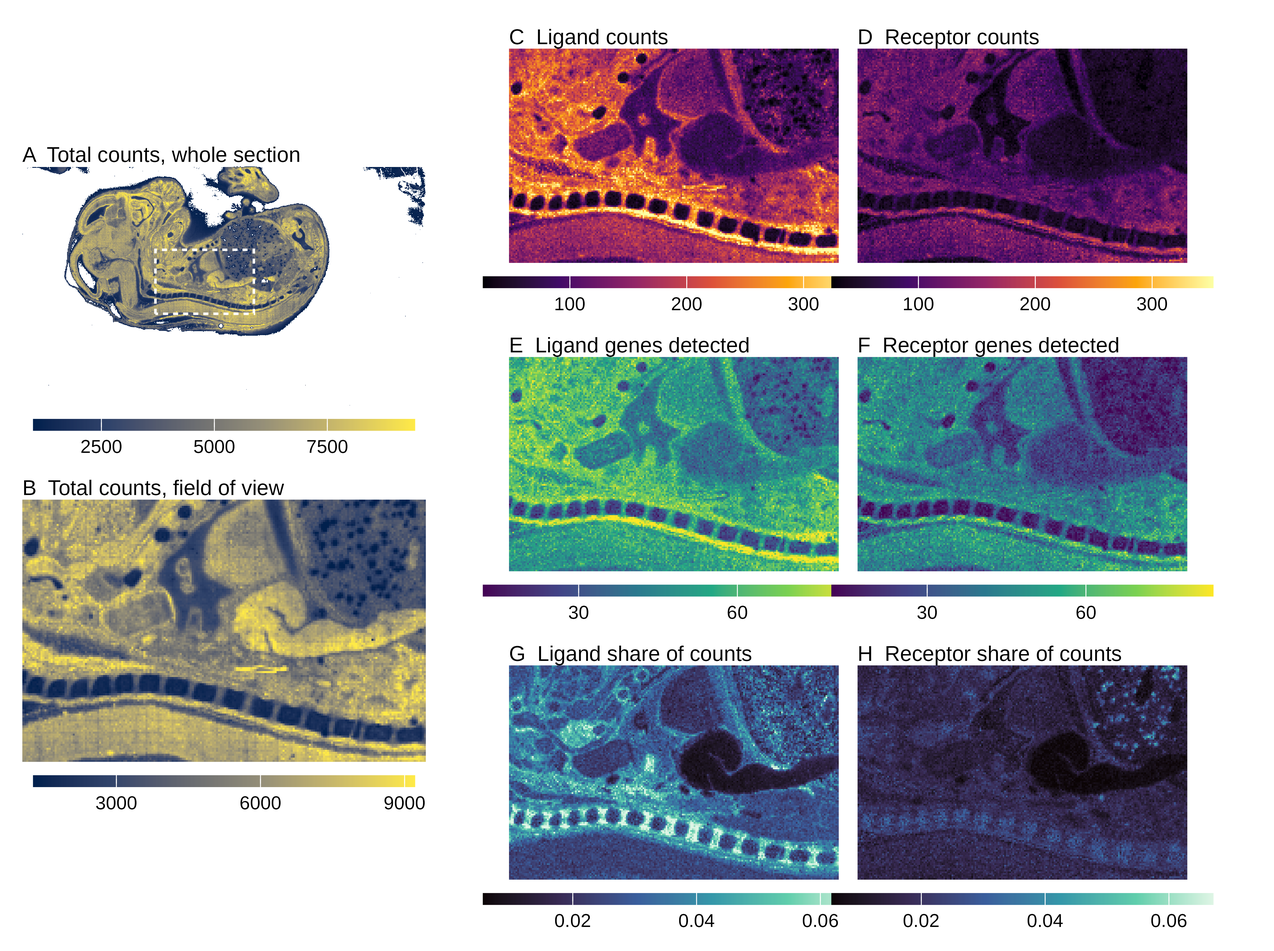
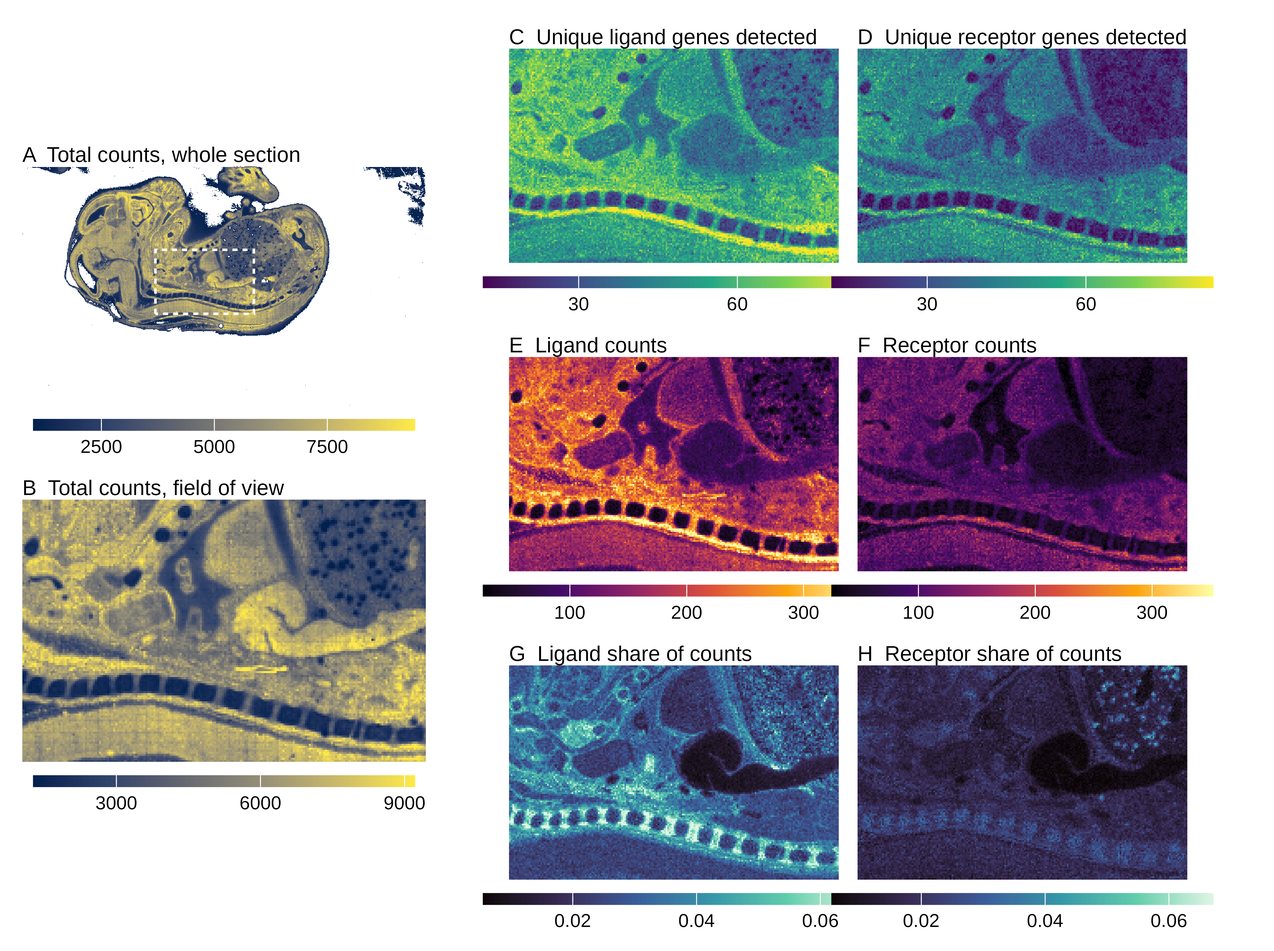
AOZ's logged edits of 2026-11-24: plug-in map as the one name, Fig 1 glyphs, Fig 2 panel order, abstract, AI-use disclosure draft
- "plug-in map" replaces "point-estimate map" in the working manuscript, the response
  letter and the cover letter; defined at first use in the abstract, Introduction and Methods.
- Fig 1: posterior glyph removed from protein density (an assumed proxy, not estimated);
  caption says which quantities carry a computed posterior.
- Fig 2: the genes-detected panels move ahead of the count panels and are titled "Unique ...";
  panels and caption re-lettered; the caption sentence on panels G and H removed.
- Abstract: tissue-domain sentences restored in plain wording.
- Draft Methods subsection "Use of artificial intelligence tools", with bracketed notes for AOZ.
- Reading-aid scripts: snippets with an already-escaped character no longer break the build;
  the header note of the agent-edits copy is set by CHANGE_NOTE.

Claude-Session: https://claude.ai/code/session_01JZRqUH5ojfcJY9isAYvzHi

Changed region(s): [[0.3733, 0.0312, 0.9644, 0.6562]]

diff --git a/Submission_PLOSOne/submission-2/plos-port/paper-plos-voice.tex b/Submission_PLOSOne/submission-2/plos-port/paper-plos-voice.tex
@@ -105,7 +105,7 @@ Micha Sam Brickman Raredon\textsuperscript{2,3,4\Yinyang*}
 \end{flushleft}
 
 \section*{Abstract}
-Maps of ligand-receptor interaction estimated from spatial transcriptomics are frequently read by eye from point estimates. This has too often been extended to judging by eye whether a field is higher in one region as compared to another. Such a reading ignores two things: the sampling uncertainty of the estimates, which for an interaction field combines the uncertainty of the expression of two genes, and the spatial correlation between neighboring locations, which leaves a region with far less independent information than its size suggests. We fit a Bayesian hierarchical geostatistical model to the raw counts of each ligand and receptor gene in one field of view of an embryonic day 16.5 mouse embryo section profiled with Stereo-seq. Joint posterior draws from these fits give a posterior distribution over maps of each gene's expression, from which posteriors of 1,477 ligand-receptor interaction fields are computed. We use these posteriors to ask whether the differences visible on the maps are supported by the data, for averages over regions, along transects, and over whole fields. Joint inference by excursion sets is used as the primary decision tool. Of 19,201 comparisons between pairs of regions, 11,527 show a ratio of at least 1.25 on the point-estimate maps, and for 3,603 of these (31\%) the posterior 95\% interval for the ratio includes 1, indicating that a difference seen in the point estimates is frequently not supported by the data. This share is highest for the two comparisons between small regions within one tissue, at 83\% and 91\%. Comparisons can also be found where areas that look alike on the maps are credibly different. A rank test applied to the smoothed map values, treating locations as independent, finds a difference in 90\% of the comparisons, whereas using the joint posterior finds a difference in only 46\%, and the posterior with its spatial correlation removed in only 73\%, indicating that most of the disagreement traces to the correlation rather than to the uncertainty at each location. Along transects and over whole fields, far fewer locations are identified as differing when the statement must hold for all of them at once than when each location is judged separately. The fields estimate the potential for signaling under the co-expression assumption standard in cell-cell communication analysis, not signaling itself.
+Maps of ligand-receptor interaction estimated from spatial transcriptomics are frequently read by eye from point estimates. This has too often been extended to judging by eye whether a field is higher in one region as compared to another. Such a reading ignores two things: the sampling uncertainty of the estimates, which for an interaction field combines the uncertainty of the expression of two genes, and the spatial correlation between neighboring locations, which leaves a region with far less independent information than its size suggests. We fit a Bayesian hierarchical geostatistical model to the raw counts of each ligand and receptor gene in one field of view of an embryonic day 16.5 mouse embryo section profiled with Stereo-seq. Joint posterior draws from these fits give a posterior distribution over maps of each gene's expression, from which posteriors of 1,477 ligand-receptor interaction fields are computed. We use these posteriors to ask whether the differences visible on the maps are supported by the data, for averages over regions, along transects, and over whole fields. Joint inference by excursion sets is used as the primary decision tool. Of 19,201 comparisons between pairs of regions, 11,527 show a ratio of at least 1.25 on the plug-in maps, which are the maps computed from the point estimate of each gene, and for 3,603 of these (31\%) the posterior 95\% interval for the ratio includes 1, indicating that a difference seen in the point estimates is frequently not supported by the data. This share is highest for the two comparisons between small regions within one tissue, at 83\% and 91\%. Comparisons can also be found where areas that look alike on the maps are credibly different. A rank test applied to the smoothed map values, treating locations as independent, finds a difference in 90\% of the comparisons, whereas using the joint posterior finds a difference in only 46\%, and the posterior with its spatial correlation removed in only 73\%, indicating that most of the disagreement traces to the correlation rather than to the uncertainty at each location. Along transects and over whole fields, far fewer locations are identified as differing when the statement must hold for all of them at once than when each location is judged separately. Clustering the locations on all of the interaction fields at once divides the tissue into domains. These domains are more spatially coherent than those obtained after the counts are shuffled across locations, and they agree with the published anatomical annotation of the same section more closely than expected by chance. The fields estimate the potential for signaling under the co-expression assumption standard in cell-cell communication analysis, not signaling itself.
 
 \linenumbers
 
@@ -114,7 +114,7 @@ Maps of ligand-receptor interaction estimated from spatial transcriptomics are f
 \begin{figure}[!ht]
     \centering
     \figimg[width=1\linewidth]{../figures-regenerated/fig1-schematic.png}
-    \caption{{\bf Project schematic.} Purple arrows represent tissue processes: cell states give rise to ligand and receptor (L/R) transcripts and proteins, ligand-receptor binding, and communication between cells, which in turn changes cell states. The shaded regions mark what is measured by spatialomics data collection (orange) and what is estimated by spatial modeling (teal). Stacked outlines mark high-dimensional quantities, one layer per gene or ligand-receptor pair. The bell-shaped glyphs mark estimated quantities that carry a posterior distribution. The posterior of each estimated ligand-receptor field, taken jointly over all of its locations, is what allows the comparisons of this paper, which ask whether apparent differences between regions, along transects or over whole fields are credible. All quantities downstream of the transcript counts are model-derived proxies, not measurements.}
+    \caption{{\bf Project schematic.} Purple arrows represent tissue processes: cell states give rise to ligand and receptor (L/R) transcripts and proteins, ligand-receptor binding, and communication between cells, which in turn changes cell states. The shaded regions mark what is measured by spatialomics data collection (orange) and what is estimated by spatial modeling (teal). Stacked outlines mark high-dimensional quantities, one layer per gene or ligand-receptor pair. The bell-shaped glyphs mark the quantities for which a posterior distribution is computed: the transcript densities, which the model estimates from the counts, and the binding densities, which are computed from the posterior draws of the two partners. Protein density carries no glyph, because it is not estimated separately but is assumed to be proportional to transcript density. The posterior of each estimated ligand-receptor field, taken jointly over all of its locations, is what allows the comparisons of this paper, which ask whether apparent differences between regions, along transects or over whole fields are credible. All quantities downstream of the transcript counts are model-derived proxies, not measurements.}
     \label{fig:proj_schema}
   \end{figure}
 
@@ -143,7 +143,7 @@ Our statistical goal in this work was to take spatialomics data observations as 
 
 The two preceding points, sampling variability and spatial correlation, have direct implications for how maps of ligand-receptor interaction are read. Such maps are usually interpreted by eye: a field that looks higher in one region than another is taken to differ there, and a band that stands out along a structure is taken to be real. Two features of the data make that reading less reliable than it appears. First, each estimate carries sampling uncertainty, and for an interaction field, which is built from two genes, the uncertainty of both partners is inherited. Second, estimates at neighboring locations are correlated, so a region containing hundreds of locations may carry only a handful of independent pieces of information about the field's level there, meaning that it is easy for those viewing these data to be over-confident in the signals that they see. Tests that treat locations as independent observations have been shown in simulation to overstate the evidence when observations are spatially correlated in this way \cite{vasconcelos2026smide,seal2026spacebf}. A posterior distribution over whole fields addresses both features at once, and it permits statements about many locations simultaneously, such as the largest set of locations at which a field exceeds a reference with a stated joint probability \cite{bolin2015excursion}. Joint statements of this kind have been used to map activation in functional brain imaging with the same modeling tools we use \cite{mejia2020bayesian}, and simultaneous credible bands built from joint posterior draws have summarized interaction curves between cell types in multiplexed imaging \cite{eliason2026shade}. In spatial transcriptomics, Bayesian models have been used to compare gene expression between anatomical regions \cite{aijo2019splotch} and to place credible intervals on ligand-receptor co-expression at each location \cite{seal2026spacebf}. We are not aware of work that uses joint posterior statements to compare ligand-receptor interaction fields between regions, along transects and over whole fields, which is what we demonstrate herein and call upon other spatialomics researchers to incorporate into their own work as the standard way to perform comparisons.
 
-In this manuscript we fit a continuous spatial model to the raw counts of each ligand and receptor gene in one field of view of a mouse embryo section, obtaining a posterior for every gene field and, from the two partners' posteriors, a posterior for every ligand-receptor interaction field. Our central question is whether the differences that are visible on the point-estimate maps of these fields are supported by the data once that posterior is taken into account. We explore three forms of this question: using the ratio of two regional averages, the profile of a field along a transect, and the whole field against a reference. In each variation of the question, a joint posterior statement is taken to be the primary answer. Beside each answer we set the readings that are usually made without a posterior: the map itself, read with an explicit threshold, and a rank test that treats the locations of the map as independent observations. The regions, the transects, the threshold and the randomly drawn example pairs were fixed before any posterior comparison was computed to avoid selection bias. The analyses that were added after that point are each dated in the design document provided with the code. Because these fields were developed to study many interactions at once, we also report that clustering the full collection of interaction fields yields spatially coherent tissue domains, together with the controls that bound what those domains show. Throughout, the demonstration is on one field of view of one section of one embryo, and the fields estimate the potential for signaling under the co-expression assumption, not signaling itself.
+In this manuscript we fit a continuous spatial model to the raw counts of each ligand and receptor gene in one field of view of a mouse embryo section, obtaining a posterior for every gene field and, from the two partners' posteriors, a posterior for every ligand-receptor interaction field. Our central question is whether the differences that are visible on the plug-in maps of these fields, which are the maps computed from the point estimate of each gene, are supported by the data once that posterior is taken into account. We explore three forms of this question: using the ratio of two regional averages, the profile of a field along a transect, and the whole field against a reference. In each variation of the question, a joint posterior statement is taken to be the primary answer. Beside each answer we set the readings that are usually made without a posterior: the map itself, read with an explicit threshold, and a rank test that treats the locations of the map as independent observations. The regions, the transects, the threshold and the randomly drawn example pairs were fixed before any posterior comparison was computed to avoid selection bias. The analyses that were added after that point are each dated in the design document provided with the code. Because these fields were developed to study many interactions at once, we also report that clustering the full collection of interaction fields yields spatially coherent tissue domains, together with the controls that bound what those domains show. Throughout, the demonstration is on one field of view of one section of one embryo, and the fields estimate the potential for signaling under the co-expression assumption, not signaling itself.
 
 \section*{Materials and methods}\label{sec:materials}
 
@@ -228,7 +228,7 @@ To assess the impact of our modeling choices, we desired a way of quantifying th
 \begin{figure}[!ht]
     \centering
     \figimg[width=1\linewidth]{../figures-regenerated/fig2-data-parameters.png}
-        \caption{{\bf Data parameters.} (A) Total counts (unique molecular identifiers) per bin over the whole section E16.5\_E1S3 from \cite{Chen2022}, at bin 50. The dashed box is the field of view analyzed. Bins with fewer than 1,000 counts, which lie off the tissue, are left blank. (B) Total counts within the field of view. (C, D) Number of transcripts from ligand genes (C) and from receptor genes (D) in each bin, added up over all genes of that kind, on a common color scale. (E, F) Number of different ligand genes (E) and receptor genes (F) that have at least one transcript in the bin. For example, a bin whose ten ligand transcripts all come from one gene has a value of 10 in panel C and 1 in panel E, whereas a bin whose ten ligand transcripts come from ten different genes has a value of 10 in both. (G, H) Share of each bin's total counts that come from ligand and receptor genes, that is, the counts of panels C and D divided by the total counts of panel B. Panels G and H show whether the ligand and receptor transcripts simply follow sequencing depth or make up a varying share of it, which is the reason the models use the total count as an offset. Ligands and receptors are the FANTOM5 ligands (422) and receptors (479) among the 912 modeled genes, and a gene that is both is counted in both. Color scales are clipped at the 0.5th and 99.5th percentiles.}
+        \caption{{\bf Data parameters.} (A) Total counts (unique molecular identifiers) per bin over the whole section E16.5\_E1S3 from \cite{Chen2022}, at bin 50. The dashed box is the field of view analyzed. Bins with fewer than 1,000 counts, which lie off the tissue, are left blank. (B) Total counts within the field of view. (C, D) Number of unique ligand genes (C) and receptor genes (D) that have at least one transcript in the bin. (E, F) Number of transcripts from ligand genes (E) and from receptor genes (F) in each bin, added up over all genes of that kind, on a common color scale. For example, a bin whose ten ligand transcripts all come from one gene has a value of 1 in panel C and 10 in panel E, whereas a bin whose ten ligand transcripts come from ten different genes has a value of 10 in both. (G, H) Share of each bin's total counts that come from ligand and receptor genes, that is, the counts of panels E and F divided by the total counts of panel B. Ligands and receptors are the FANTOM5 ligands (422) and receptors (479) among the 912 modeled genes, and a gene that is both is counted in both. Color scales are clipped at the 0.5th and 99.5th percentiles.}
     \label{fig:data_param}
   \end{figure}
 
@@ -337,7 +337,7 @@ Along transects we also report a simultaneous 95\% credible band. The band is fo
 
 To show whether accounting for uncertainty changes a conclusion, each posterior statement is set beside three ways of answering the same question without the posterior.
 
-The first reading is the map itself. Interaction fields are frequently interpreted by eye from point-estimate maps, and we need an operational stand-in for that practice. The point-estimate map of an interaction field is, at every bin, the smaller of the posterior medians of its two partner genes. We call this map the \textit{plug-in map}, because the point estimate of each gene is plugged into the minimum in place of its posterior. We say that a field \textit{looks different} between two regions when the ratio of its regional averages on the plug-in map, the larger over the smaller, is at least a threshold $T$. We set $T = 1.25$ from the rulings of one author (AOZ) on five example maps with ratios between 1.16 and 2.94, where only differences in level were judged (S11 Fig). Two of the five rulings were uncertain. For this reason, every count is also reported at $T = 1.5$ and $T = 2$, both of which were fixed in advance. The same threshold, applied to the absolute plug-in log ratio, defines \textit{looks different} at each transect position, bin and block.
+The first reading is the map itself. Interaction fields are frequently interpreted by eye from a map of point estimates, and we need an operational stand-in for that practice. Our stand-in is the \textit{plug-in map}, which is, at every bin, the smaller of the posterior medians of the two partner genes. The name refers to the point estimate of each gene being plugged into the minimum in place of its posterior. We say that a field \textit{looks different} between two regions when the ratio of its regional averages on the plug-in map, the larger over the smaller, is at least a threshold $T$. We set $T = 1.25$ from the rulings of one author (AOZ) on five example maps with ratios between 1.16 and 2.94, where only differences in level were judged (S11 Fig). Two of the five rulings were uncertain. For this reason, every count is also reported at $T = 1.5$ and $T = 2$, both of which were fixed in advance. The same threshold, applied to the absolute plug-in log ratio, defines \textit{looks different} at each transect position, bin and block.
 
 The second reading is a rank test applied to the map, with the bins treated as independent observations. When comparing two regions, we use a two-sided Wilcoxon rank-sum test at level 0.05 on the plug-in values of the bins in one region against those in the other. When comparing two fields within one region, we use a paired Wilcoxon signed-rank test on the two shape-normalized plug-in fields, bin by bin.
 
@@ -350,6 +350,12 @@ The third reading is our own posterior with its spatial correlation removed. The
 The example fields shown in the figures were chosen before their posteriors were computed, so that they could not be selected for the answer they give. Three ligand-receptor pairs were drawn at random, with a fixed seed, from the pairs that look different ($T = 1.25$) in a prespecified comparison and whose plug-in field is not nearly empty. These are CALR-ITGA2B for the heart against the liver, NID1-ITGB1 for the two spinal-cord boxes, and ADAM12-ITGB1 for the heart and liver parts of the heart-to-liver transect. For the cross-field example, one pair of fields sharing a ligand was drawn at random from the pairs in which neither field is nearly empty (CALM1-KCNQ3 and CALM1-PDE1A). The four pairs shown in S15 Fig (WNT4-FZD6, RSPO1-LGR6, DHH-PTCH1 and VEGFA-KDR) were added because they had been selected to illustrate the comparison of convolution operators before any posterior comparison existed. For the single-gene example we used \textit{Cd44}, the representative feature of Fig~\ref{fig:raw_v_norm}. To isolate the effect of combining a gene with a partner, we also drew at random one of the 12 pairs containing \textit{CD44} whose field is not nearly empty (PKM-CD44). Here \textit{not nearly empty} means that the median of the plug-in field over the bins concerned is at least the median of the same quantity across all 1,477 pairs.
 
 Every comparison was then run for all 1,477 pairs. The 790 refits were performed on a shared computing cluster, and the posterior draws were stored as 16-bit integers on the log scale with a resolution of 0.001, which changes no reported quantity at the precision given. For each pair, the regional averages, the field-of-view average and the transect values of $M$ were computed within each draw, and every comparison and tabulation below was derived from those. As a check on reproducibility, 91 instances (seven example pairs, 13 region comparisons each) were computed both in a local pilot and in the cluster run, with different random seeds and on different machines. The two runs agree in 90 of the 91 credible calls, and the one disagreement has a lower interval endpoint near 1 in both runs (0.98 and 1.01).
+
+% DRAFT by the agent, 2026-11-24, for the PLOS AI-use disclosure policy. AOZ to verify every statement;
+% the bracketed notes must be resolved and removed before submission.
+\subsection*{Use of artificial intelligence tools}
+
+We used Claude (Anthropic), a large language model, through its coding tool Claude Code, in preparing this revision [AOZ: add model versions and dates of use if wanted]. It was used in three ways. First, it wrote and revised analysis code under our direction, including the scripts for the uncertainty-aware comparisons, for the controls on the tissue domains, and for the figures that are drawn in code (Figs~\ref{fig:proj_schema} and \ref{fig:data_param} and the figures of the region, transect and whole-field comparisons) [AOZ: confirm this list]. Second, it drafted and revised text throughout the manuscript, the Supporting Information and the response to reviewers, which the authors then edited. Third, it was used to search for related work and to check the manuscript's numbers and statements against the stored results and the cited sources. The questions asked, the design of the analyses, and the interpretation of the results are the authors' own. To evaluate its output, [AOZ: state what you did, for example: one author (AOZ) reviewed the code, read every passage of the text, and checked the reported numbers against the results files]. The authors take responsibility for all content of this article.
 
 \section*{Results}
 
@@ -528,7 +534,7 @@ The second control is a comparison with independent anatomy. The domains agree w
 
 \section*{Discussion}\label{sec:discussion}
 
-Interaction fields estimated from spatial transcriptomics are frequently read from point-estimate maps. The central finding of this paper is that, on the section studied here, those readings and the posterior often disagree. Of the region comparisons that look different on the maps at a ratio of 1.25, about three in ten are not supported by the posterior. The share is far higher for small regions within one tissue, where it is 83\% and 91\%, than for whole organs (Table~\ref{tab:systematic}). Along transects and over whole fields, far fewer locations are identified when a statement must hold for all of them at once than when each location is judged separately (Figs~\ref{fig:transects} and \ref{fig:wholefield}).
+Interaction fields estimated from spatial transcriptomics are frequently read from plug-in maps. The central finding of this paper is that, on the section studied here, those readings and the posterior often disagree. Of the region comparisons that look different on the maps at a ratio of 1.25, about three in ten are not supported by the posterior. The share is far higher for small regions within one tissue, where it is 83\% and 91\%, than for whole organs (Table~\ref{tab:systematic}). Along transects and over whole fields, far fewer locations are identified when a statement must hold for all of them at once than when each location is judged separately (Figs~\ref{fig:transects} and \ref{fig:wholefield}).
 
 We read these results as demonstrations of what a posterior over the fields makes possible on one section, and not as estimates of how often published readings of other data are wrong. The comparisons share regions and genes, and the threshold for \textit{looks different} is a stand-in for reading a map by eye that rests on the rulings of one author on five examples. In addition, part of the gap between map and posterior is due to the upward bias of the plug-in operator (Fig~\ref{fig:plugin}) rather than to uncertainty. We also note that finding a comparison not credible is not evidence that the two regions are alike. It means only that these data, under this model, cannot tell us which of the two regions has the higher level.
 

diff --git a/Submission_PLOSOne/submission-2/make-claude-edits-copy.py b/Submission_PLOSOne/submission-2/make-claude-edits-copy.py
@@ -20,6 +20,7 @@ def is_prose(l):
 def words(l):
     return re.sub(r"\\[a-zA-Z]+\*?|[{}$~\[\]]", " ", l).split()
 def esc(s):
+    s = re.sub(r"\\([%&_#])", r"\1", s)   # a snippet may already hold an escaped character; do not escape it twice
     for a, b in (("%", "\\%"), ("&", "\\&"), ("_", "\\_"), ("#", "\\#"), ("^", "")): s = s.replace(a, b)
     return s
 
@@ -166,7 +167,7 @@ else:   # post: fix up latexdiff output
 \newcommand{\SAMEPAR}[2]{\small\color{gray}[Unchanged paragraph, #1 words: ``#2 \dots'']\par}
 """
     note = r"""
-\begin{center}\fbox{\parbox{0.94\linewidth}{\small\textbf{How to read this copy.} It shows only what Claude changed in \texttt{paper-plos-voice.tex} between Aaron's last saved edit on 2026-11-23 and the morning of 2026-11-24 (his bracketed comments addressed, the editing pass, and the follow-up fixes), paragraph by paragraph.
+\begin{center}\fbox{\parbox{0.94\linewidth}{\small\textbf{How to read this copy.} It shows only what Claude changed in \texttt{paper-plos-voice.tex} """ + os.environ.get("CHANGE_NOTE", "since the file as Aaron last saved it") + r""", paragraph by paragraph.
 \textcolor{gray}{Gray one-liners} are paragraphs that did not change.
 A paragraph in black with \textcolor{blue}{blue underlined} and \textcolor{red}{red struck-through} words is an edit of an original paragraph: black plus red is the sentence as Aaron left it, black plus blue is the current one.
 A paragraph entirely in \textcolor{blue}{blue} is new, or was rewritten so heavily that marking single words would be unreadable; where it replaced an original paragraph, the version Aaron left is printed whole in \textcolor{red}{red} just before it.

diff --git a/Submission_PLOSOne/submission-2/response-to-reviewers.tex b/Submission_PLOSOne/submission-2/response-to-reviewers.tex
@@ -403,7 +403,7 @@ Reviewer 2's comment R2.8.
 
 First, every comparison the revised manuscript makes between regions, along transects or over
 whole fields is set beside the ways the same question is commonly answered without our
-posterior: reading the point-estimate map, a Wilcoxon test on the smoothed map values that treats
+posterior: reading the plug-in map, a Wilcoxon test on the smoothed map values that treats
 each location as an independent observation, and our own posterior with the correlation between
 locations removed. Across 19,201 comparisons between pairs of regions (1,477 ligand-receptor
 pairs, 13 fixed region comparisons each), the Wilcoxon test finds a difference in 90\%, the

diff --git a/Submission_PLOSOne/submission-2/make-change-copy.py b/Submission_PLOSOne/submission-2/make-change-copy.py
@@ -20,6 +20,7 @@ def is_prose(l):
 def words(l):
     return re.sub(r"\\[a-zA-Z]+\*?|[{}$~\[\]]", " ", l).split()
 def esc(s):
+    s = re.sub(r"\\([%&_#])", r"\1", s)   # a snippet may already hold an escaped character; do not escape it twice
     for a, b in (("%", "\\%"), ("&", "\\&"), ("_", "\\_"), ("#", "\\#"), ("^", "")): s = s.replace(a, b)
     return s
 

diff --git a/Submission_PLOSOne/submission-2/README-build.md b/Submission_PLOSOne/submission-2/README-build.md
@@ -122,6 +122,8 @@ distrobox enter bittensor-ubuntu -- bash -c "latexdiff --math-markup=off --disab
 #     Same steps with ../make-claude-edits-copy.py; it reads $CHANGE_TMP/old2.tex (the file as Aaron
 #     last saved it, for example `git show HEAD:.../paper-plos-voice.tex`) and $CHANGE_TMP/new2.tex
 #     (the file now), writes oldstar2/newstar2, and expects latexdiff output in diffstar2.tex.
+#     Set the environment variable CHANGE_NOTE (for both the python and the latexdiff/pdflatex step) to a
+#     phrase saying which two states are compared; it is printed in the box at the top of the copy.
 ```
 
 `--disable-citation-markup` is required: without it the underline package breaks on `\cite`. Both
